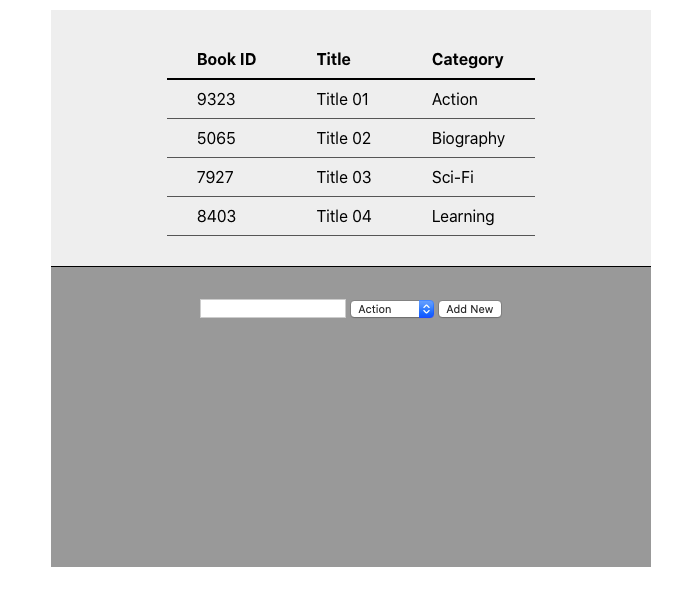
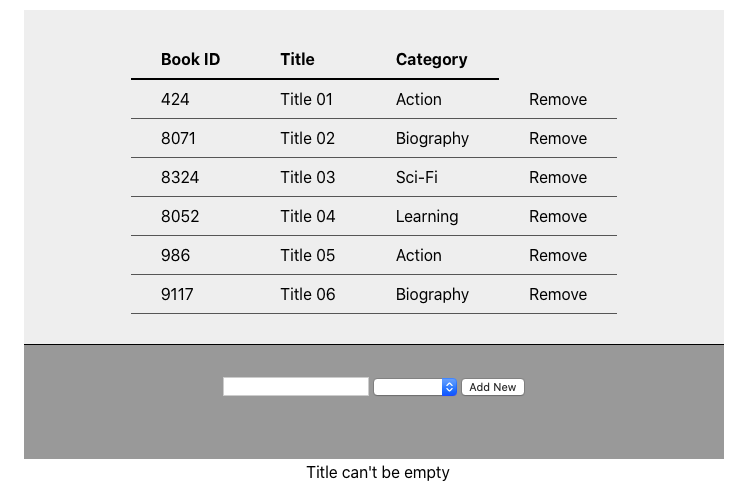
implemented remove book feature

diff --git a/src/components/book.js b/src/components/book.js
@@ -1,17 +1,39 @@
-/* eslint-disable react/prop-types */
+/* eslint-disable jsx-a11y/click-events-have-key-events */
+/* eslint-disable jsx-a11y/no-noninteractive-element-interactions */
+/* eslint-disable react/forbid-prop-types */
 /* eslint-disable react/prefer-stateless-function */
 
 import React from 'react';
+import PropTypes from 'prop-types';
 
 export default class Book extends React.Component {
   render() {
-    const { book } = this.props;
+    const { book, removeBook } = this.props;
+    const { id, title, category } = book;
+
+    const handleRemoveBook = () => {
+      removeBook(id);
+    };
+
     return (
-      <tr key={book.id}>
-        <td>{book.id}</td>
-        <td>{book.title}</td>
-        <td>{book.category}</td>
+      <tr key={id}>
+        <td>{id}</td>
+        <td>{title}</td>
+        <td>{category}</td>
+        <td onClick={handleRemoveBook}>
+          Remove
+        </td>
       </tr>
     );
   }
 }
+
+Book.propTypes = {
+  book: PropTypes.object,
+  removeBook: PropTypes.func,
+};
+
+Book.defaultProps = {
+  book: null,
+  removeBook: null,
+};

diff --git a/src/reducers/books.js b/src/reducers/books.js
@@ -16,8 +16,11 @@ const booksReducer = (state = [], action) => {
     {
       const { bookId } = action;
       const index = state.findIndex(book => bookWithId(book, bookId));
-      const newState = state.slice(0, index).concat(state.slice(index + 1));
-      return newState;
+      if (index > -1) {
+        const newState = state.slice(0, index).concat(state.slice(index + 1));
+        return newState;
+      }
+      return state;
     }
     default:
       return state;

diff --git a/src/actions/index.js b/src/actions/index.js
@@ -6,9 +6,9 @@ const createBook = book => ({
   book,
 });
 
-const removeBook = book => ({
+const removeBook = bookId => ({
   type: REMOVE_BOOK,
-  book,
+  bookId,
 });
 
 export {

diff --git a/src/App.css b/src/App.css
@@ -20,7 +20,7 @@ tr {
 
 .App {
   text-align: center;
-  width: 600px;
+  width: 700px;
   margin: 10px auto;
 }
 
